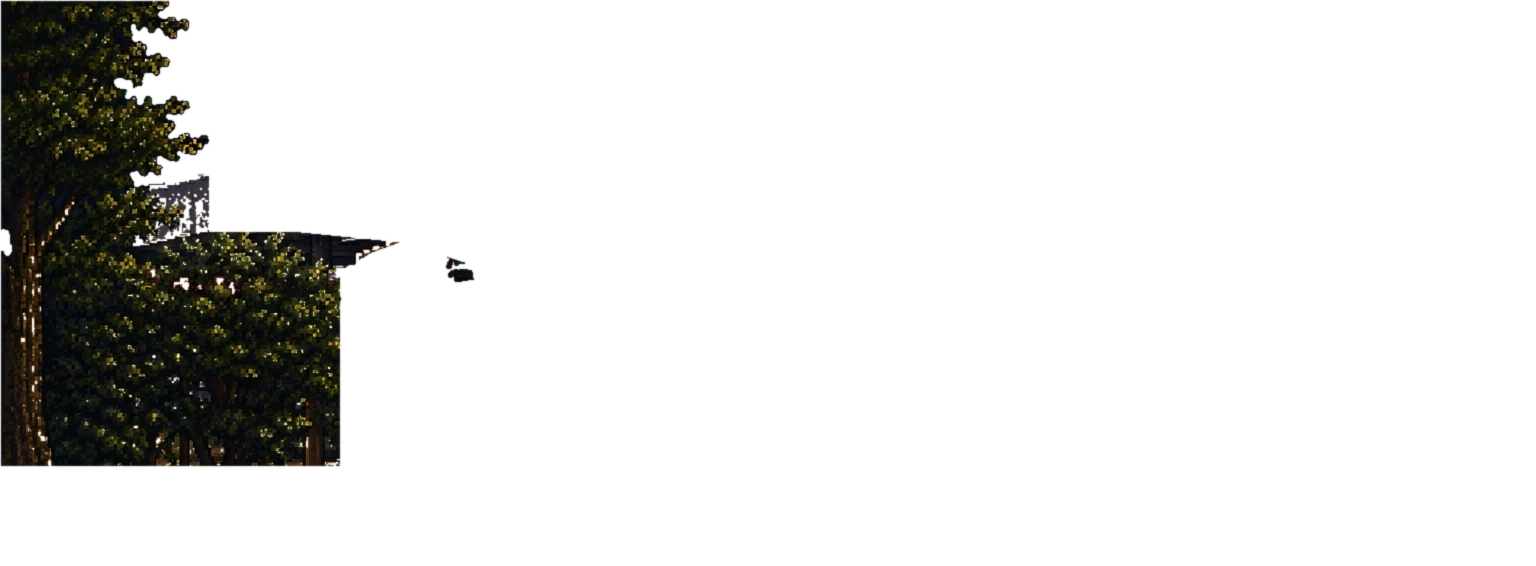
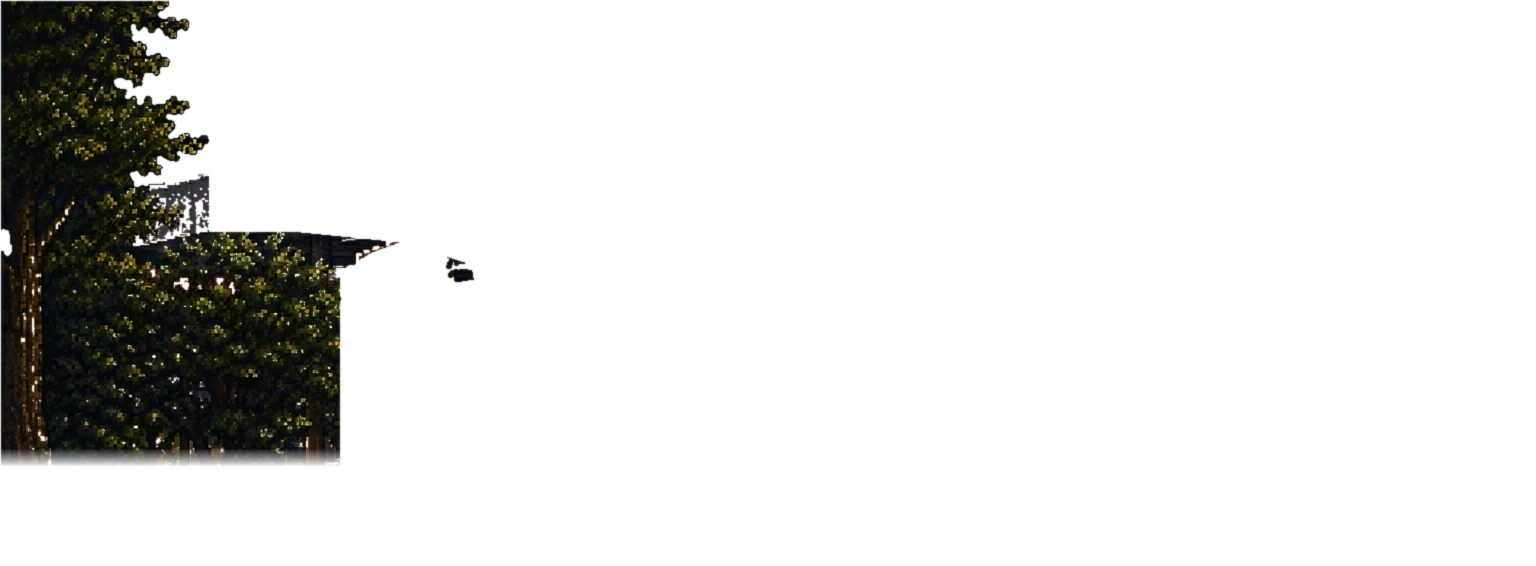
Feather the tree's ruler edge instead of freezing the tree
Pinning to BASE_DEPTH has been the right answer three times now — for a ground
strip, a co-planar fence and a card that turned out to be a rectangle. It
works because none of those had parallax worth keeping. EAV's `tree` does: it
is the big near foliage mass down the left of the stage and one of the few
things on that plate genuinely closer than the fence.

Measured at the start of the stage, 0.81 against 0.50 differs over 6.8% of the
frame, and what the difference actually shows is not the card's motion. It is
the HARD LINE: the hedge terminating in a straight edge above the kerb with the
grass cut off beneath it, 78% of its bottom sitting on one row at y=447 — the
same ruler line the grass card was cut on.

So keep the depth and kill the line. tools/feather_flat_edge.py ramps a card's
alpha to zero over the last 18 rows of its flat run, so foliage fades into the
base's own copy of the same foliage instead of stopping dead. Two near-
identical images blended across 18px read as undergrowth; a hard edge sliding
15px reads as a mistake. Only columns bottoming within 4px of the flat line are
ramped, so a real silhouette — a trunk, a gap between shrubs — keeps its
outline. It only ever removes alpha, and the base holds a full copy of
everything a card draws, so it cannot leave a hole.

That is the general answer for the flat edges still on the audit, and it is
reusable on them.

Where the sweep now stands. It began at fifteen ruler cuts across four stages.
[…]

Changed region(s): [[0.0, 0.7809, 0.2188, 0.841]]

diff --git a/tools/feather_flat_edge.py b/tools/feather_flat_edge.py
@@ -1,0 +1,114 @@
+#!/usr/bin/env python3
+"""
+Soften a card's ruler-straight edge instead of freezing the whole card.
+
+THE PROBLEM THIS SOLVES, AND WHY IT IS NOT JUST "USE BASE DEPTH". Several
+cards were cut with a straight horizontal line through content that continues
+past it — tools/cut_audit.py ranks them. Pinning such a card to BASE_DEPTH
+makes the bad cut unobservable and has been the right answer three times: for
+a ground strip, for a co-planar fence, for a card that was a plain rectangle.
+It works because none of those had parallax worth keeping.
+
+EAV's `tree` does. It is the big near foliage mass down the left of the stage
+at depth 0.81, and it is one of the few things on that plate genuinely closer
+than the fence. Freezing it costs a real depth cue.
+
+What is actually visible is not the card's motion — it is the HARD LINE at the
+bottom of it. Measured at the start of the stage, 0.81 against 0.50 differs
+over 6.8% of the frame, and the difference reads as the hedge terminating in a
+straight edge above the kerb with the grass cut off beneath it.
+
+So: keep the depth, kill the line. The card's alpha is ramped to zero over the
+last N rows of its flat run, so instead of foliage stopping dead it fades into
+the base's own copy of the same foliage. Two near-identical images blended
+across 18px read as soft undergrowth; a hard edge sliding 15px reads as a
+mistake.
+
+⚠ ONLY WHERE THE EDGE IS ACTUALLY FLAT. A column whose content ends well
+above the ruler line is a real silhouette — a trunk, a gap between shrubs —
+and feathering it would eat the object's own outline. Columns are ramped only
+if they bottom out within `tol` of the flat run, which is the same test the
+audit uses to find the run in the first place.
+
+⚠ THIS ONLY REMOVES ALPHA. The base holds a full copy of everything a card
+draws, so softening a card can never leave a hole — the pixels the card gives
+up are still painted, at the base's rate. Same safety argument as
+drop_card_crumbs.py.
+
+Usage:
+    python3 tools/feather_flat_edge.py eav-day tree --preview
+    python3 tools/feather_flat_edge.py eav-day tree
+"""
+
+import os
+import sys
+
+import numpy as np
+from PIL import Image
+
+ROOT = os.path.dirname(os.path.dirname(os.path.abspath(__file__)))
+BG = os.path.join(ROOT, 'src', 'assets', 'backgrounds')
+
+# depth of the ramp in px, and how close to the flat line a column must bottom
+# out to be treated as part of it.
+EDGES = {
+    'tree': dict(side='bottom', ramp=18, tol=4,
+                 why='hedge cut dead flat at the grass line'),
+}
+
+
+def main():
+    stage, key = sys.argv[1], sys.argv[2]
+    preview = '--preview' in sys.argv
+    if key not in EDGES:
+        raise SystemExit(f'no edge entry for {key!r}. Known: '
+                         f'{", ".join(sorted(EDGES))}')
+    cfg = EDGES[key]
+    path = os.path.join(BG, f'{stage}-{key}.webp')
+    if not os.path.exists(path):
+        raise SystemExit(f'missing {path}')
+
+    a = np.array(Image.open(path).convert('RGBA'))
+    alpha = a[..., 3].astype(np.float32)
+    solid = alpha > 24
+    H, W = solid.shape
+    ys = np.arange(H)[:, None]
+    cols = np.where(solid.any(0))[0]
+    if cfg['side'] != 'bottom':
+        raise SystemExit('only bottom edges are implemented')
+    low = (solid * ys).max(0)
+    line = int(np.bincount(low[cols]).argmax())
+    run = [x for x in cols if abs(int(low[x]) - line) <= cfg['tol']]
+    print(f'{stage}-{key}: flat bottom at y={line} on '
+          f'{len(run)}/{len(cols)} columns  ({cfg["why"]})')
+    if not run:
+        print('  nothing flat enough to feather')
+        return
+
+    ramp = cfg['ramp']
+    touched = 0
+    for x in run:
+        b = int(low[x])
+        for k in range(ramp):
+            y = b - k
+            if y < 0 or not solid[y, x]:
+                continue
+            # 0 at the very edge, 1 by the top of the ramp.
+            f = (k + 1) / (ramp + 1)
+            new = alpha[y, x] * f
+            if new < alpha[y, x]:
+                alpha[y, x] = new
+                touched += 1
+    print(f'  ramped {touched} px over the last {ramp} rows')
+    if preview:
+        print('  --preview: nothing written')
+        return
+    a[..., 3] = np.clip(alpha, 0, 255).astype(np.uint8)
+    a[a[..., 3] == 0] = 0
+    # 94 to match cut_planes.py.
+    Image.fromarray(a, 'RGBA').save(path, 'WEBP', quality=94, method=6)
+    print(f'  -> {os.path.relpath(path, ROOT)}')
+
+
+if __name__ == '__main__':
+    main()
